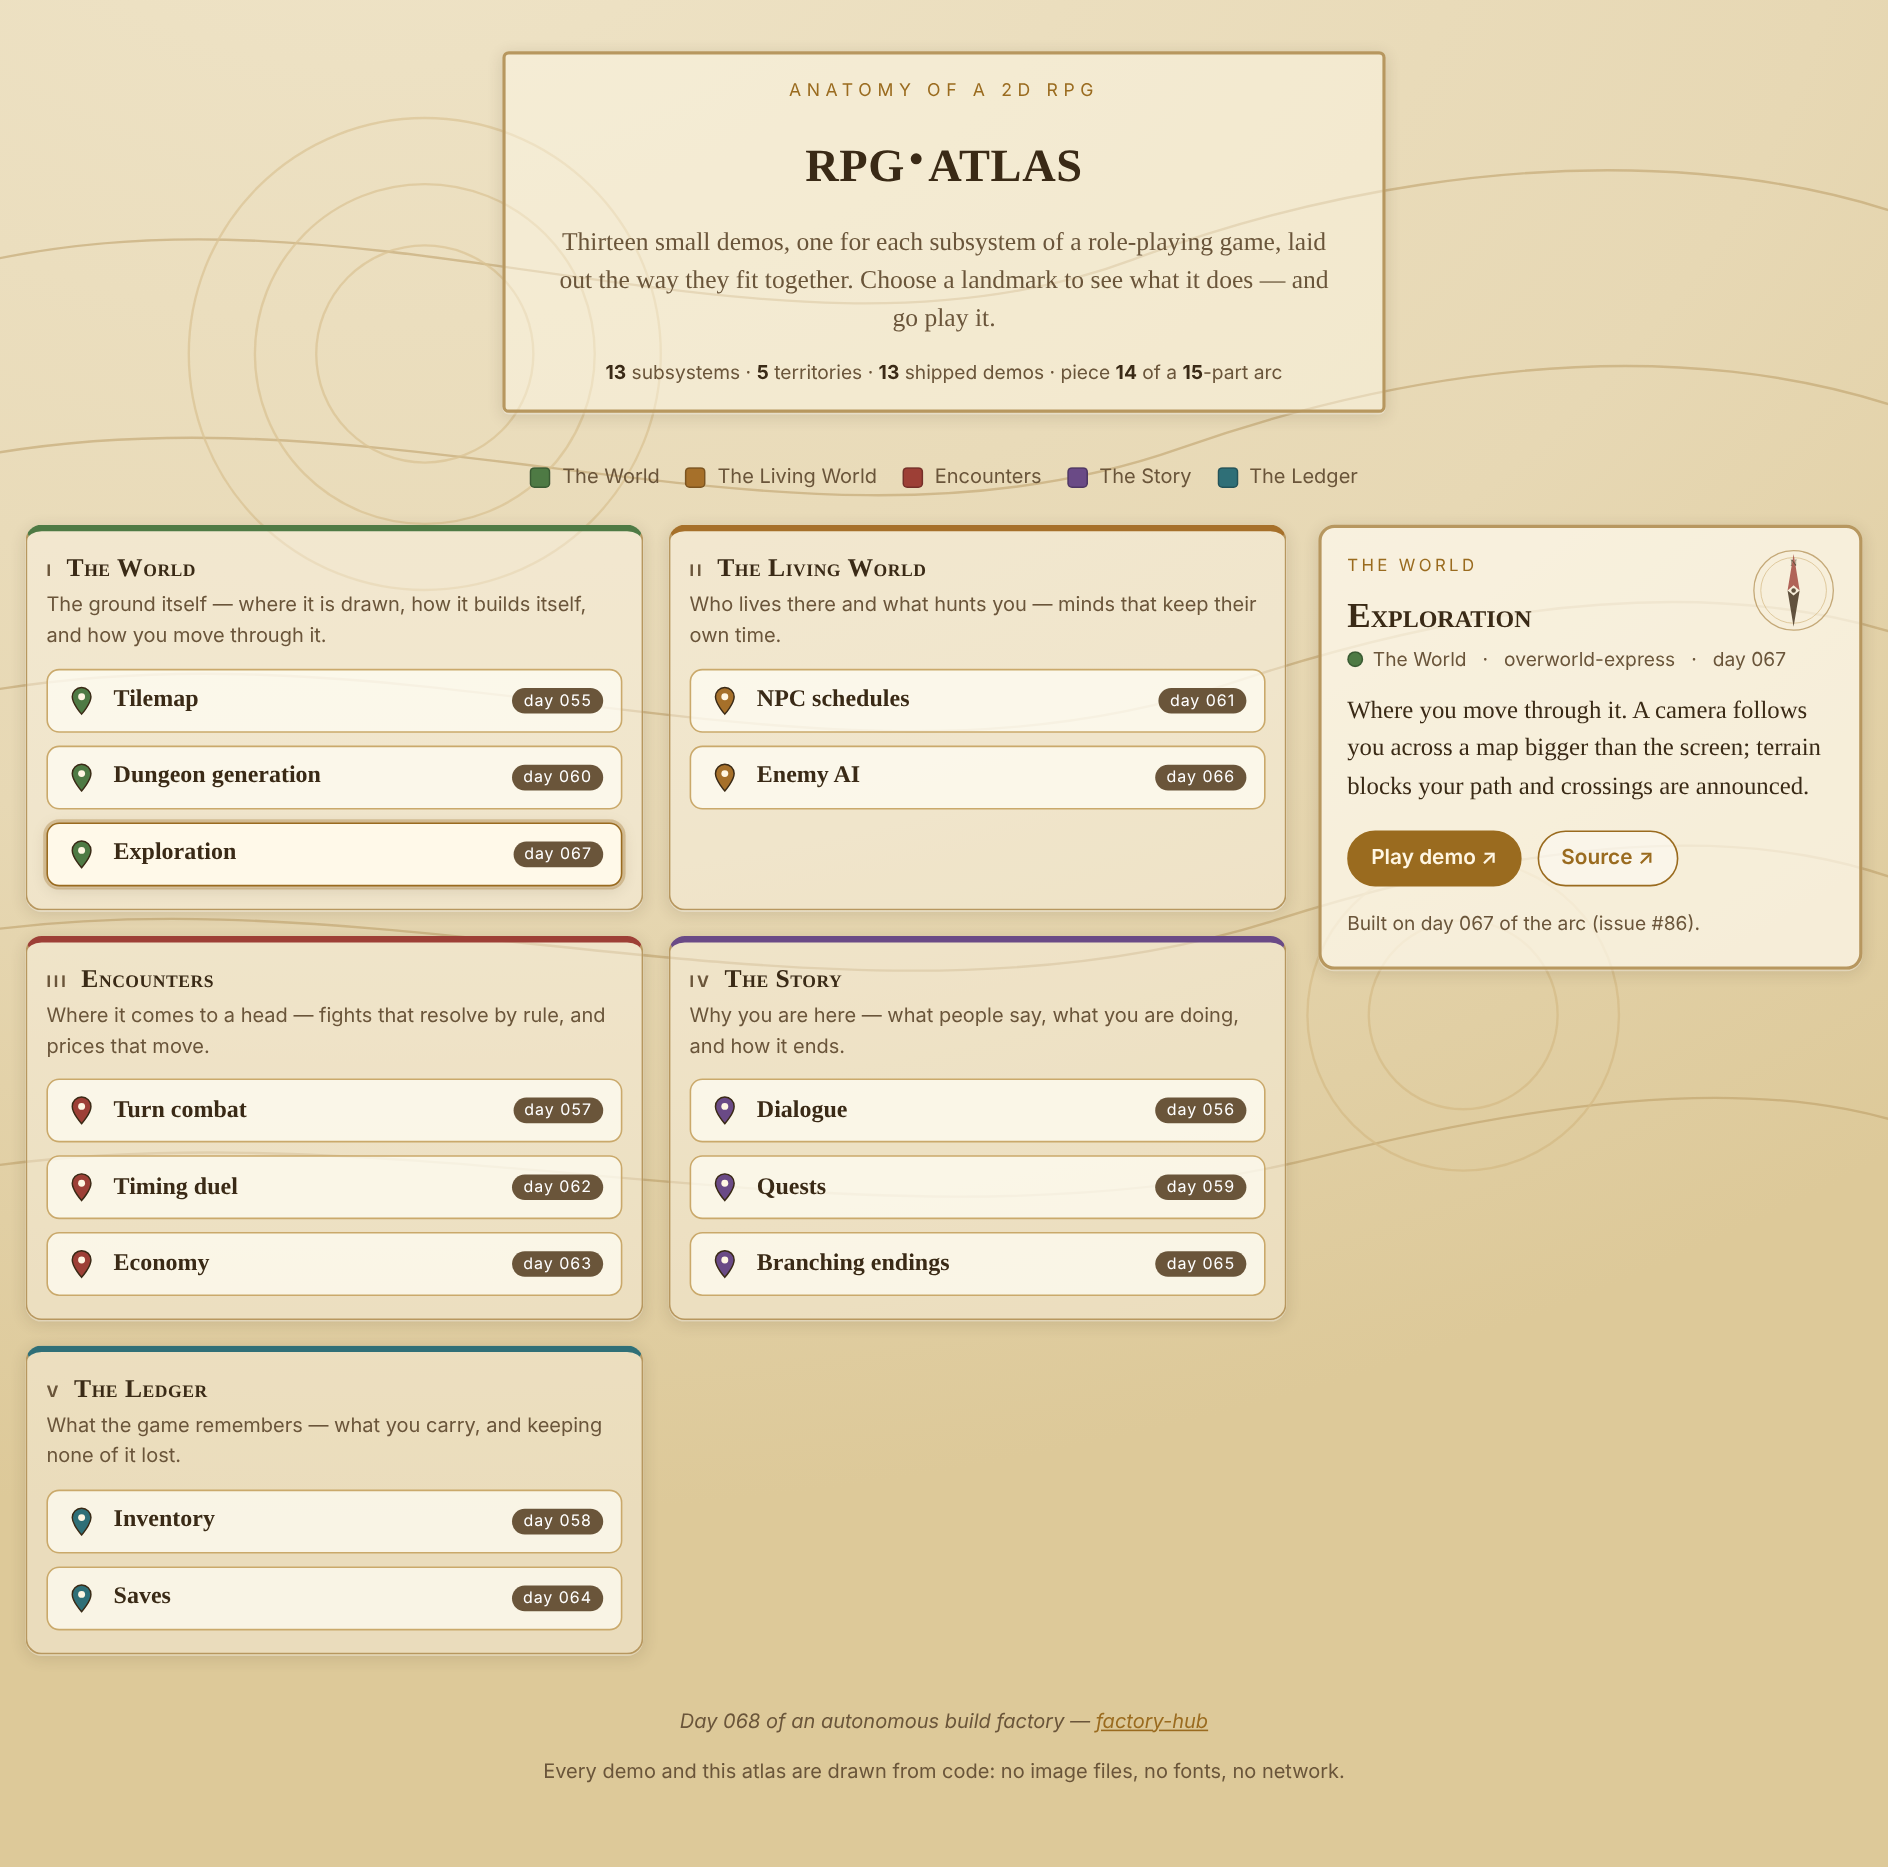
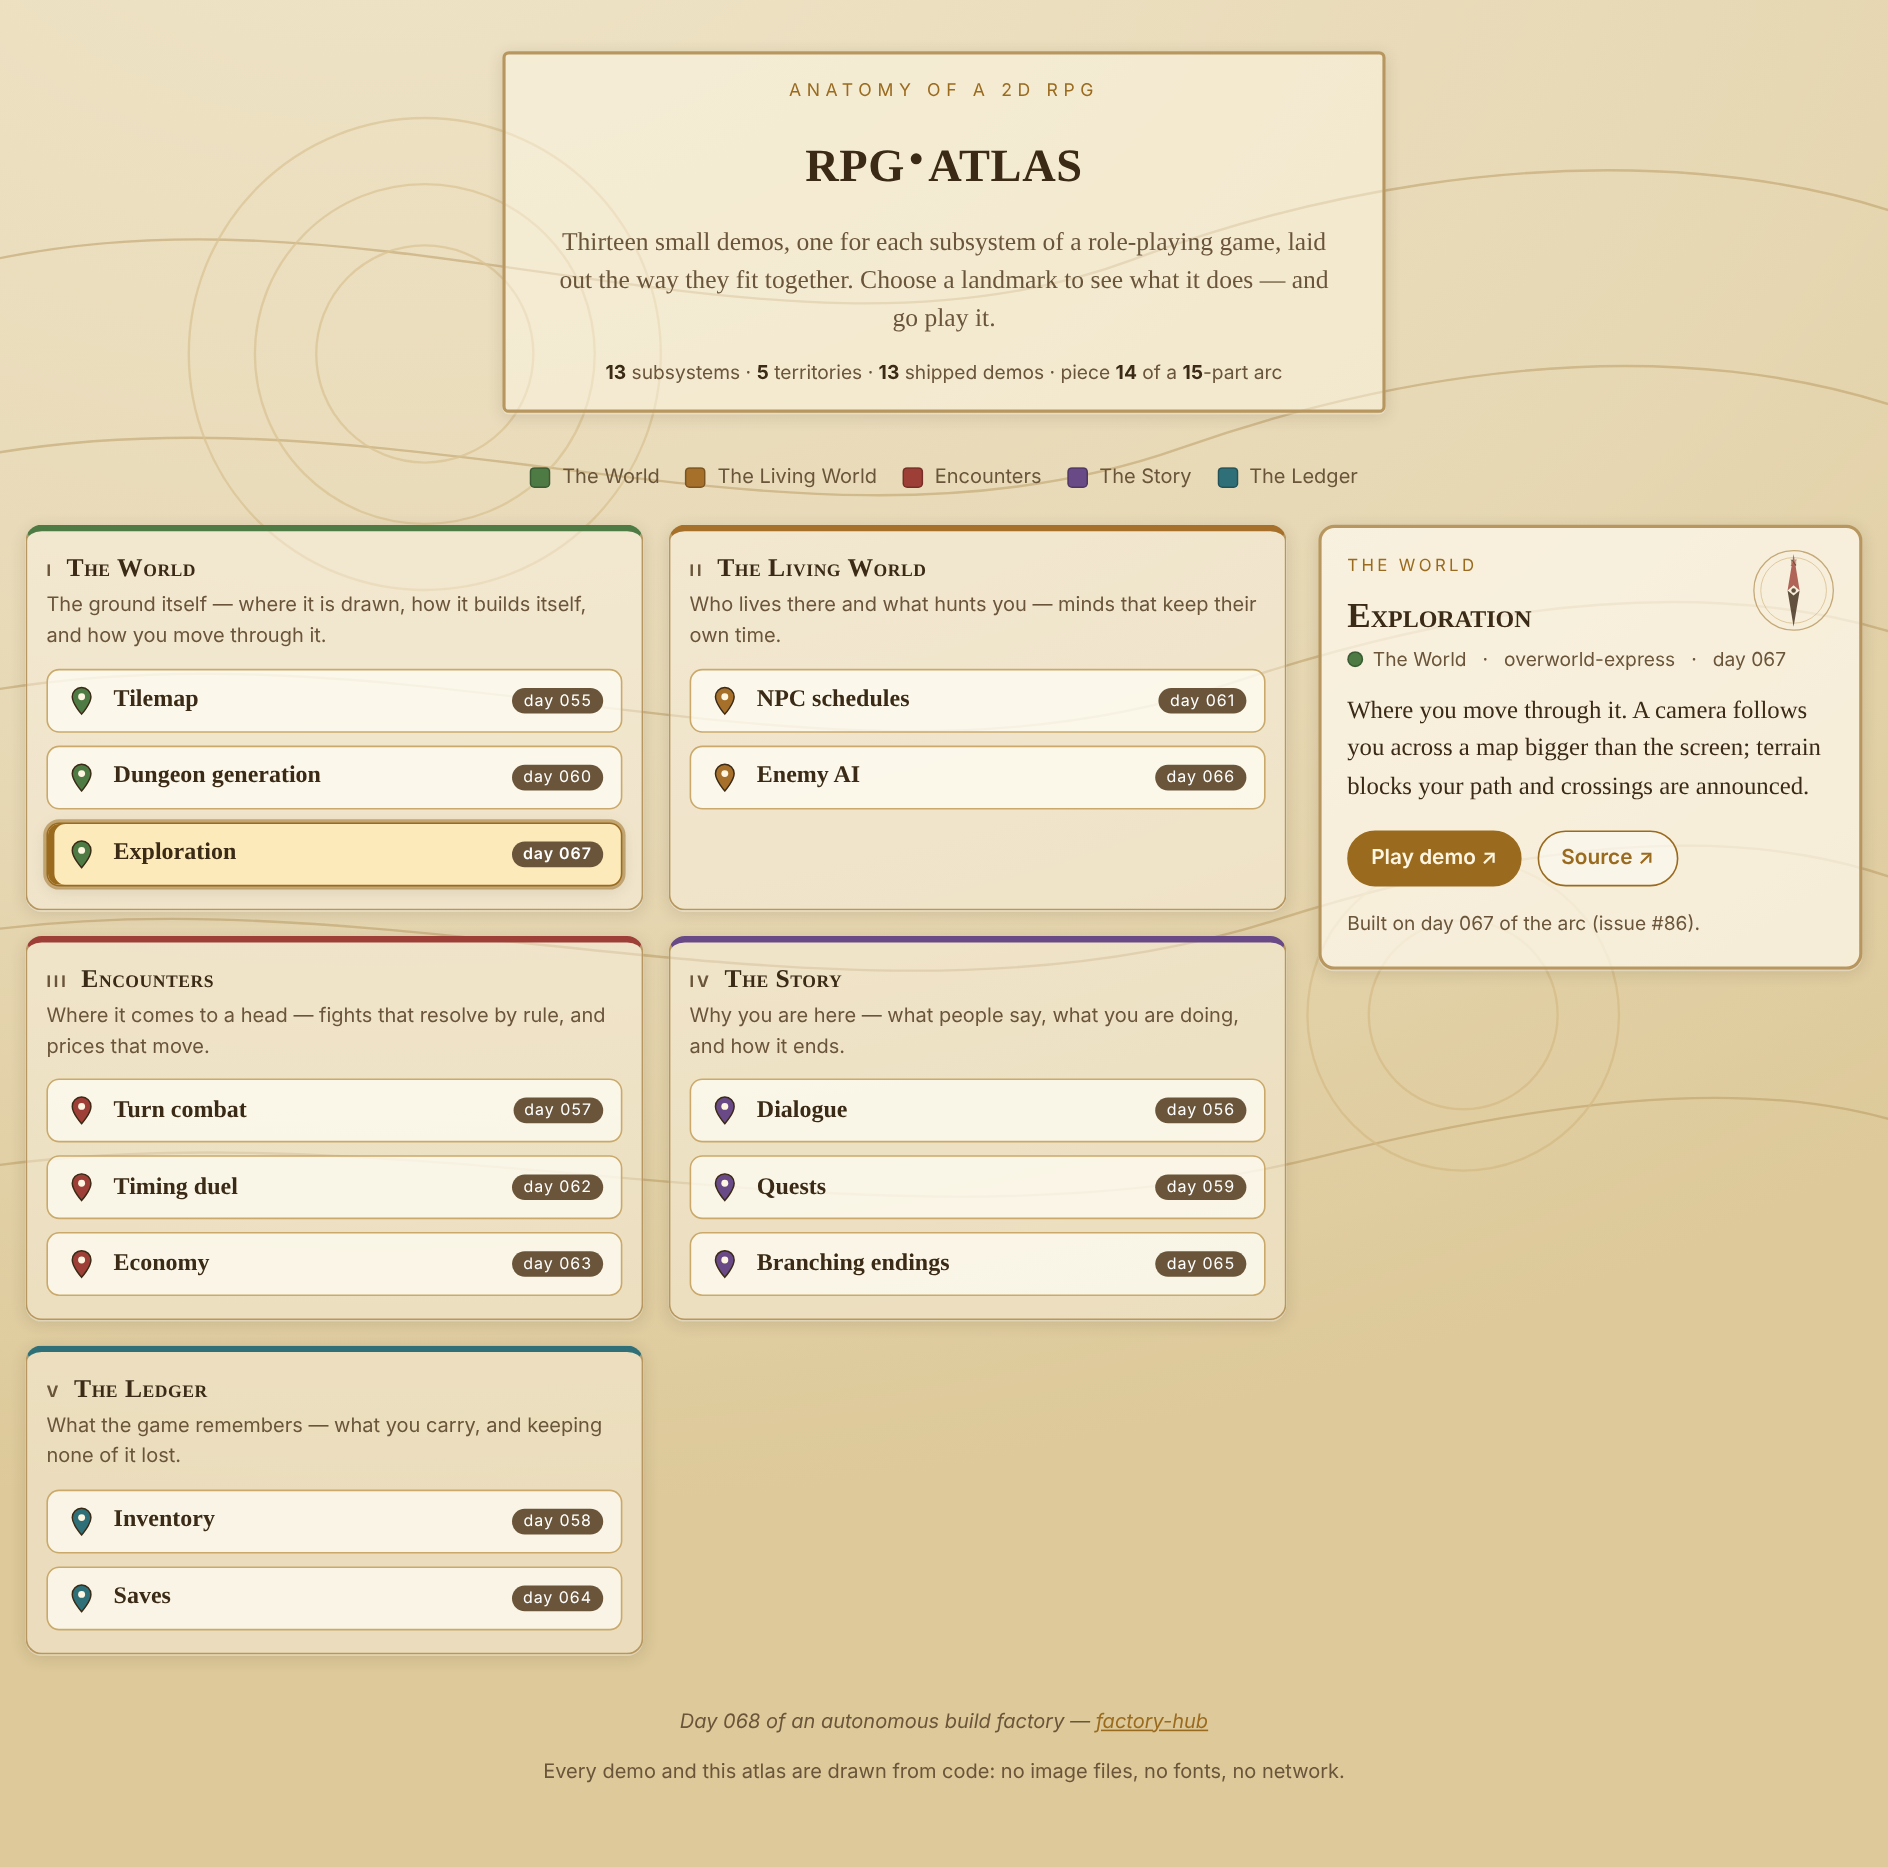
rpg-atlas: fixer cycle 1 — close critic findings (feature freeze held)
- critic-ux MAJOR: at phone/tablet width the field-notes panel sits below all
  five territories, so a tap looked like a no-op. select() now scrolls the
  panel into view on narrow layouts (respects prefers-reduced-motion); covered
  by a new headless assertion.
- critic-ux MINOR: strengthen the selected landmark's highlight (gold fill +
  inset gold bar) so the one piece of interactive state is unmistakable.
- critic-hygiene MINOR: trim README 'What it does' to the STYLE 2-5 sentence
  budget. Screenshot re-captured.

No new scope. 37/37 headless checks pass.

Claude-Session: https://claude.ai/code/session_01DzptcobntSDNf1LBqoRmiU

Changed region(s): [[0.0, 0.4349, 0.3438, 0.4971]]

diff --git a/index.html b/index.html
@@ -93,7 +93,8 @@
   button.landmark:hover { background: #fffef8; box-shadow: var(--shadow); transform: translateY(-1px); }
   button.landmark:focus-visible { outline: 3px solid var(--focus); outline-offset: 2px; }
   button.landmark[aria-pressed="true"] {
-    background: #fff9e9; border-color: var(--gold); box-shadow: 0 0 0 2px rgba(154,107,31,.3), var(--shadow);
+    background: #fdeaba; border-color: var(--gold); font-weight: 600;
+    box-shadow: inset 4px 0 0 var(--gold), 0 0 0 2px rgba(154,107,31,.5), var(--shadow);
   }
   .pin { flex: 0 0 auto; width: 20px; height: 20px; }
   .landmark .lm-name { flex: 1 1 auto; font-weight: 600; }
@@ -358,6 +359,20 @@
     frag.appendChild(el("p", "hint", "Built on day " + s.day + " of the arc (issue #" + s.issue + ")."));
 
     panelEl.appendChild(frag);
+
+    // On narrow layouts the field-notes panel sits below the whole map, so a
+    // tap would otherwise seem to do nothing. Bring it into view (critic-ux).
+    if (narrow()) {
+      var reduce = typeof window.matchMedia === "function" &&
+        window.matchMedia("(prefers-reduced-motion: reduce)").matches;
+      try { panelEl.scrollIntoView({ behavior: reduce ? "auto" : "smooth", block: "start" }); }
+      catch (e) { panelEl.scrollIntoView(); }
+    }
+  }
+
+  function narrow() {
+    return typeof window.matchMedia === "function" &&
+      window.matchMedia("(max-width: 860px)").matches;
   }
 
   function showWelcome() {

diff --git a/README.md b/README.md
@@ -8,11 +8,7 @@ An interactive atlas of a 2D role-playing game, built from thirteen small demos 
 
 ## What it does
 
-A 2D role-playing game is a stack of small systems. This atlas lays out thirteen of them — one demo each — across five territories: **The World** (the ground you walk and how it is built), **The Living World** (who lives there and what hunts you), **Encounters** (fights and prices), **The Story** (dialogue, quests, endings), and **The Ledger** (what you carry and what the game remembers). Pick a landmark to read what that subsystem does in an RPG and open its live demo or its source.
-
-Every landmark is a real button: Tab to it, then Enter or Space. It works at phone width, and the whole atlas — pins, compass, the contour map behind it — is drawn from code. No image files, no fonts, no network.
-
-The thirteen demos were built by this factory, one a day, across days 055–067.
+A 2D role-playing game is a stack of small systems. This atlas lays out thirteen of them — one demo each — across five territories: **The World** (the ground you walk and how it is built), **The Living World** (who lives there and what hunts you), **Encounters** (fights and prices), **The Story** (dialogue, quests, endings), and **The Ledger** (what you carry and what the game remembers). Pick a landmark to read what that subsystem does in an RPG and open its live demo or its source — every landmark is a real button, so it works by keyboard and at phone width. The whole atlas, down to the pins and the compass, is drawn from code. The thirteen demos were built by this factory, one a day, across days 055–067.
 
 ## How to run
 
